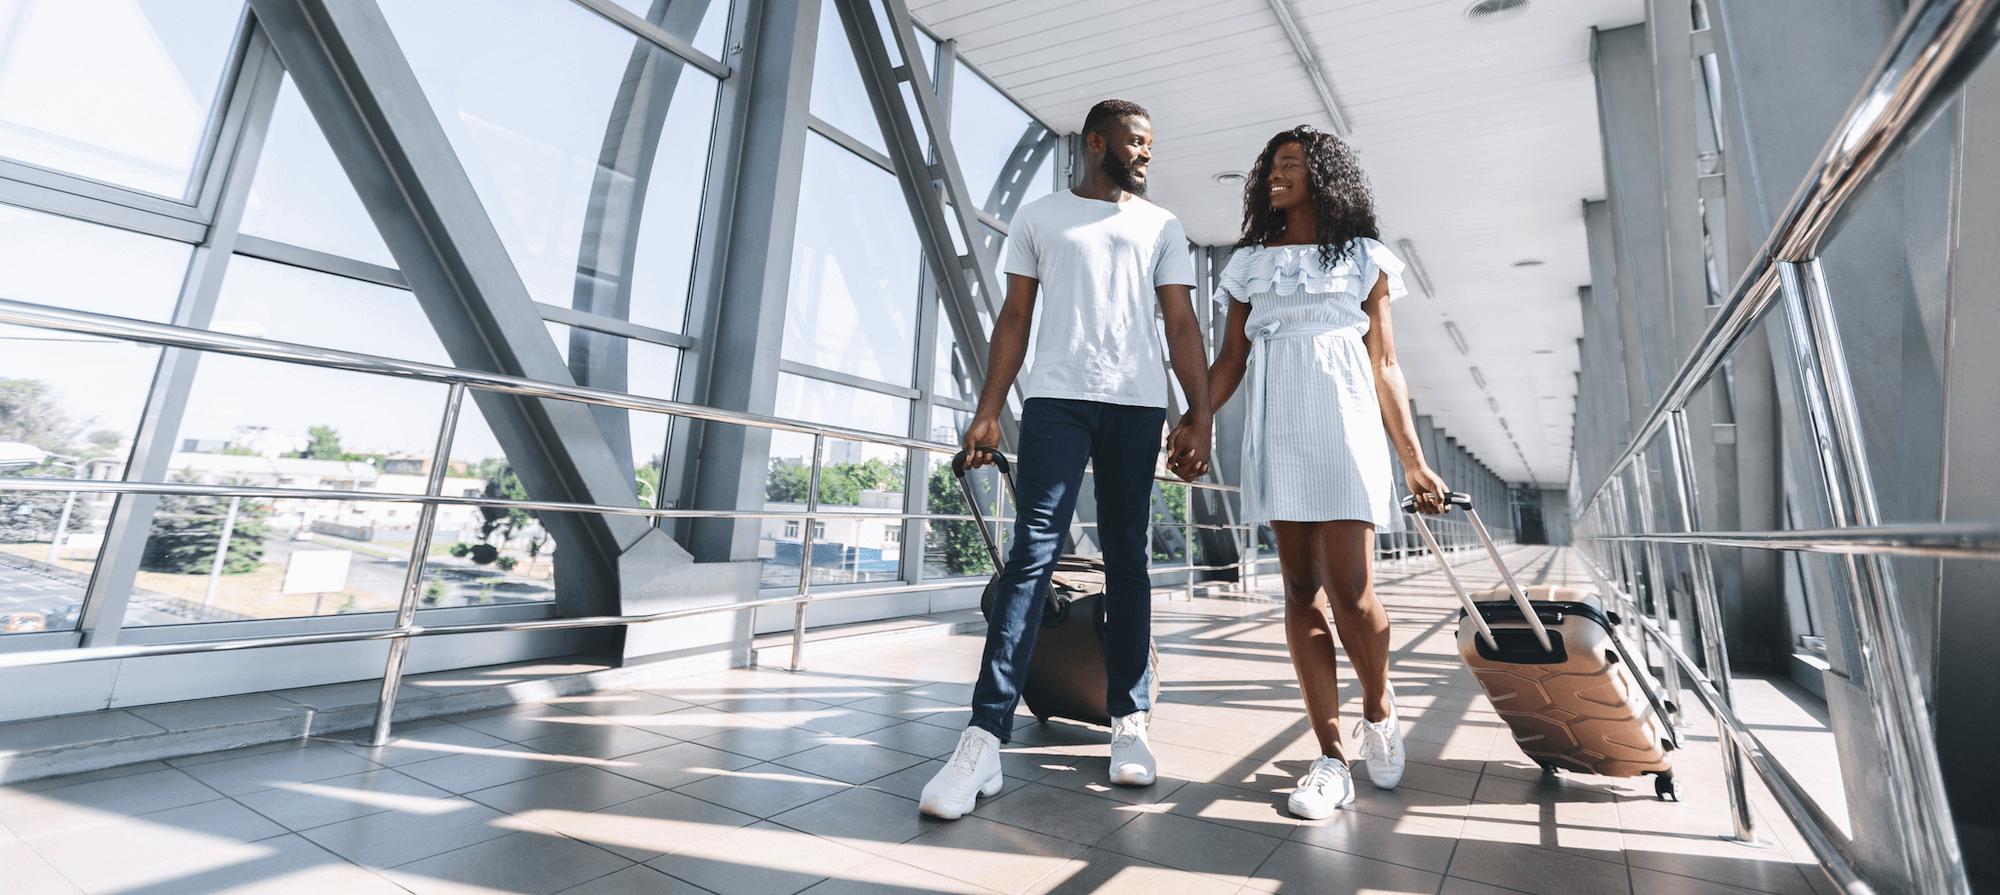
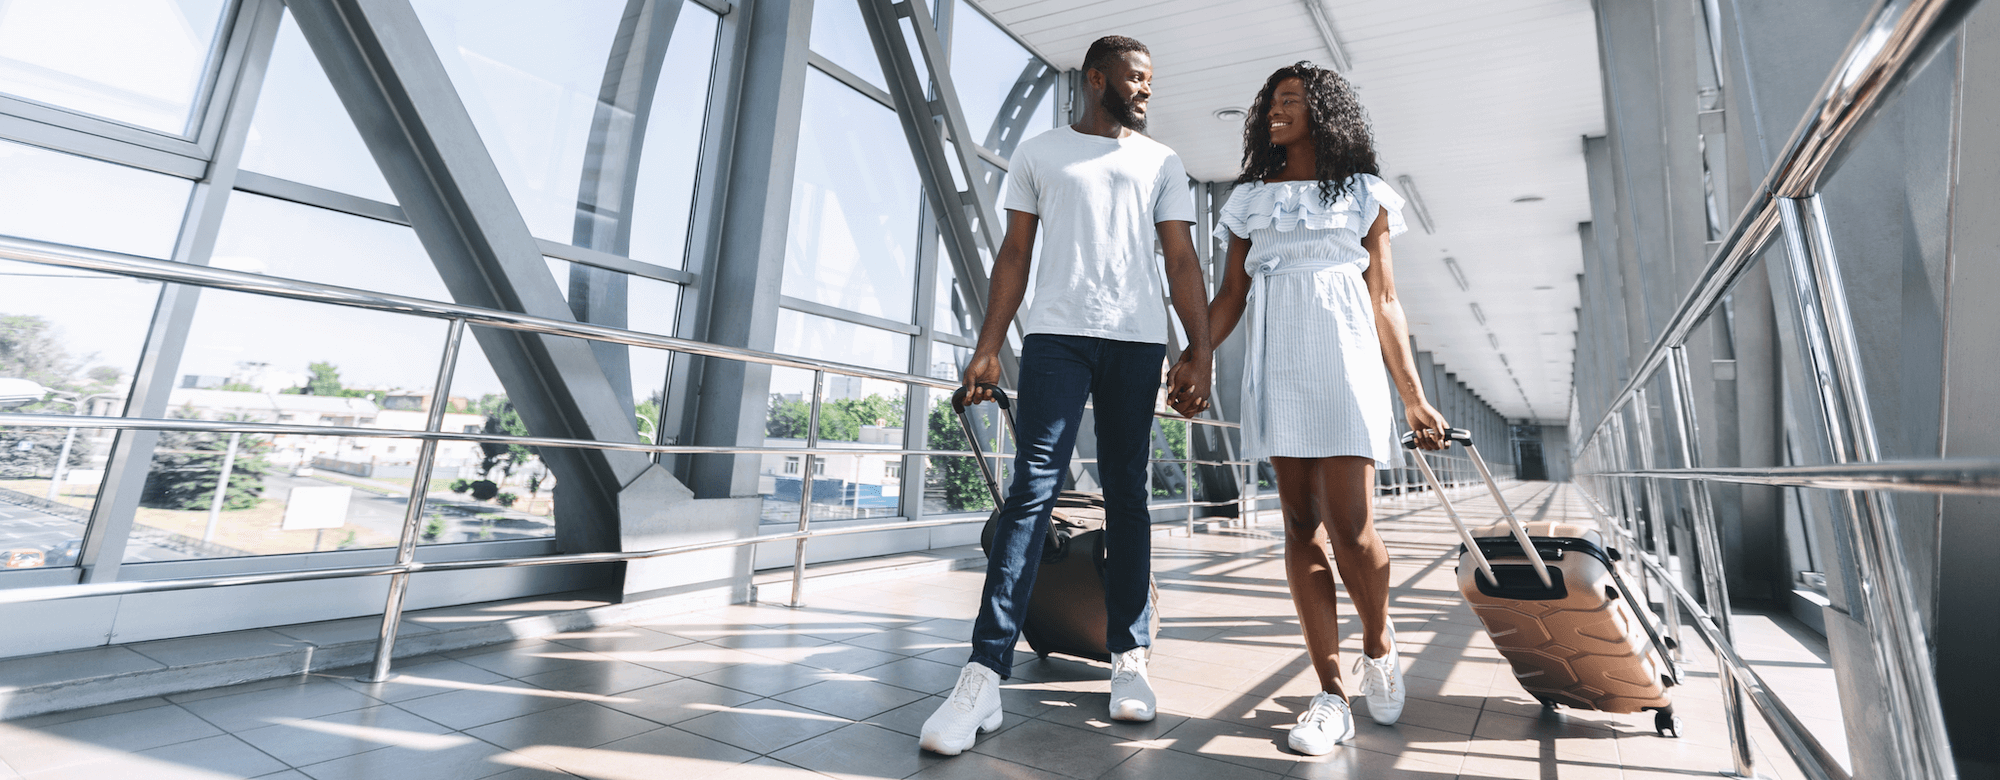
Cropped hero images further, normal, bold font, design element

diff --git a/index.html b/index.html
@@ -87,10 +87,10 @@
           </div>
         </header>
       
-        <div class="relative isolate">
+        <div class="relative isolate mb-8">
           <div class="mt-20">
             <div class="text-center">
-              <h1 class="animate__animated heading text-6xl text-center tracking-tight text-gray-900 sm:text-8xl">From day zero, <br> to day citizenship</h1>
+              <h1 class="animate__animated heading text-6xl text-center tracking-tight text-gray-900 sm:text-8xl" style="line-height: 0.9;">From day zero, <br> to day citizenship</h1>
               <div class="md:mx-[20%]">
                 <p class="text-2xl leading-8 text-gray-600">Making your migrant experience more memorable.</p>
               </div>
@@ -137,28 +137,30 @@
           data-te-carousel-item>
           <a href="#" class="absolute bg-clustterBlue text-xs font-semibold leading-6 text-clustterTorquoise px-5 py-4 rounded-md uppercase" style="left: calc(50% - 85px); bottom: 10%;">Join the waitlist <span aria-hidden="true">&rarr;</span>
           </a>
-          <img src="images/pexels-oleksandr-pidvalnyi-1008155.jpg" class="block w-full rounded-lg" alt="Traveler" />
+          <img src="images/pexels-oleksandr-pidvalnyi-1008155.png" class="block w-full rounded-lg" alt="Traveler" />
         </div>
       </div>
     </div>
 
-    <section class="bg-clustterMilk py-40">
-      <div class="md:w-4/5 mx-auto px-10 md:px-0 md:flex">
-        <div class="md:w-[50%] flex flex-col justify-center px-10">
+    <section class="bg-clustterMilk py-40 relative">
+      <div class="md:w-4/5 mx-auto px-10 md:px-0 md:flex justify-between">
+        <div class="md:w-[50%] flex flex-col justify-center px-16">
           <h2 class="animate__animated heading text-left text-6xl">Arrive ready, <br>
             receive money from anywhere.</h2>
             <p class="text-xl pt-3">Fast, secure and hassle-free account set up process enabling migrants to receive money, quickly and easily.</p>
         </div>
 
-        <div class="md:w-[50%] relative h-[600px] z-40">
-          <div class="smiling-woman w-3/4 h-full animate__animated"></div>
+        <div class="md:w-2/5 relative h-[600px] z-40 mr-16">
+          <div class="smiling-woman h-full animate__animated"></div>
           
-          <img src="images/wired-logo.png" class="w-[300px] h-[300px] absolute z-40 mr-10" style="right: 0%; bottom: 0%;">
 
-          <div class="w-[300px] h-[300px] bg-blue-200 absolute" style="bottom: 0; right:0; z-index: -1;"></div>
           
         </div>
       </div>
+      
+      <img src="images/wired-logo.png" class="w-[400px] h-[400px] absolute z-40 mr-10" style="right: 0%; bottom: 0%;">
+      <div class="w-[500px] h-[400px] bg-blue-200 absolute" style="bottom: 0; right:0;"></div>
+          
     </section>
 
     

diff --git a/styles/fonts.css b/styles/fonts.css
@@ -4,7 +4,15 @@
   font-weight: normal;
 }
 
-h1, h2 {
+@font-face {
   font-family: 'Almarena';
-  /* font-weight: lighter; */
+  src: url('../fonts/AlmarenaDisplayBold.otf') format('opentype');
+  font-weight: bold;
 }
+
+h1,h2 {
+  font-family: 'Almarena';
+}
+
+h1 {font-weight: normal;}
+h2 {font-weight: bold;}
